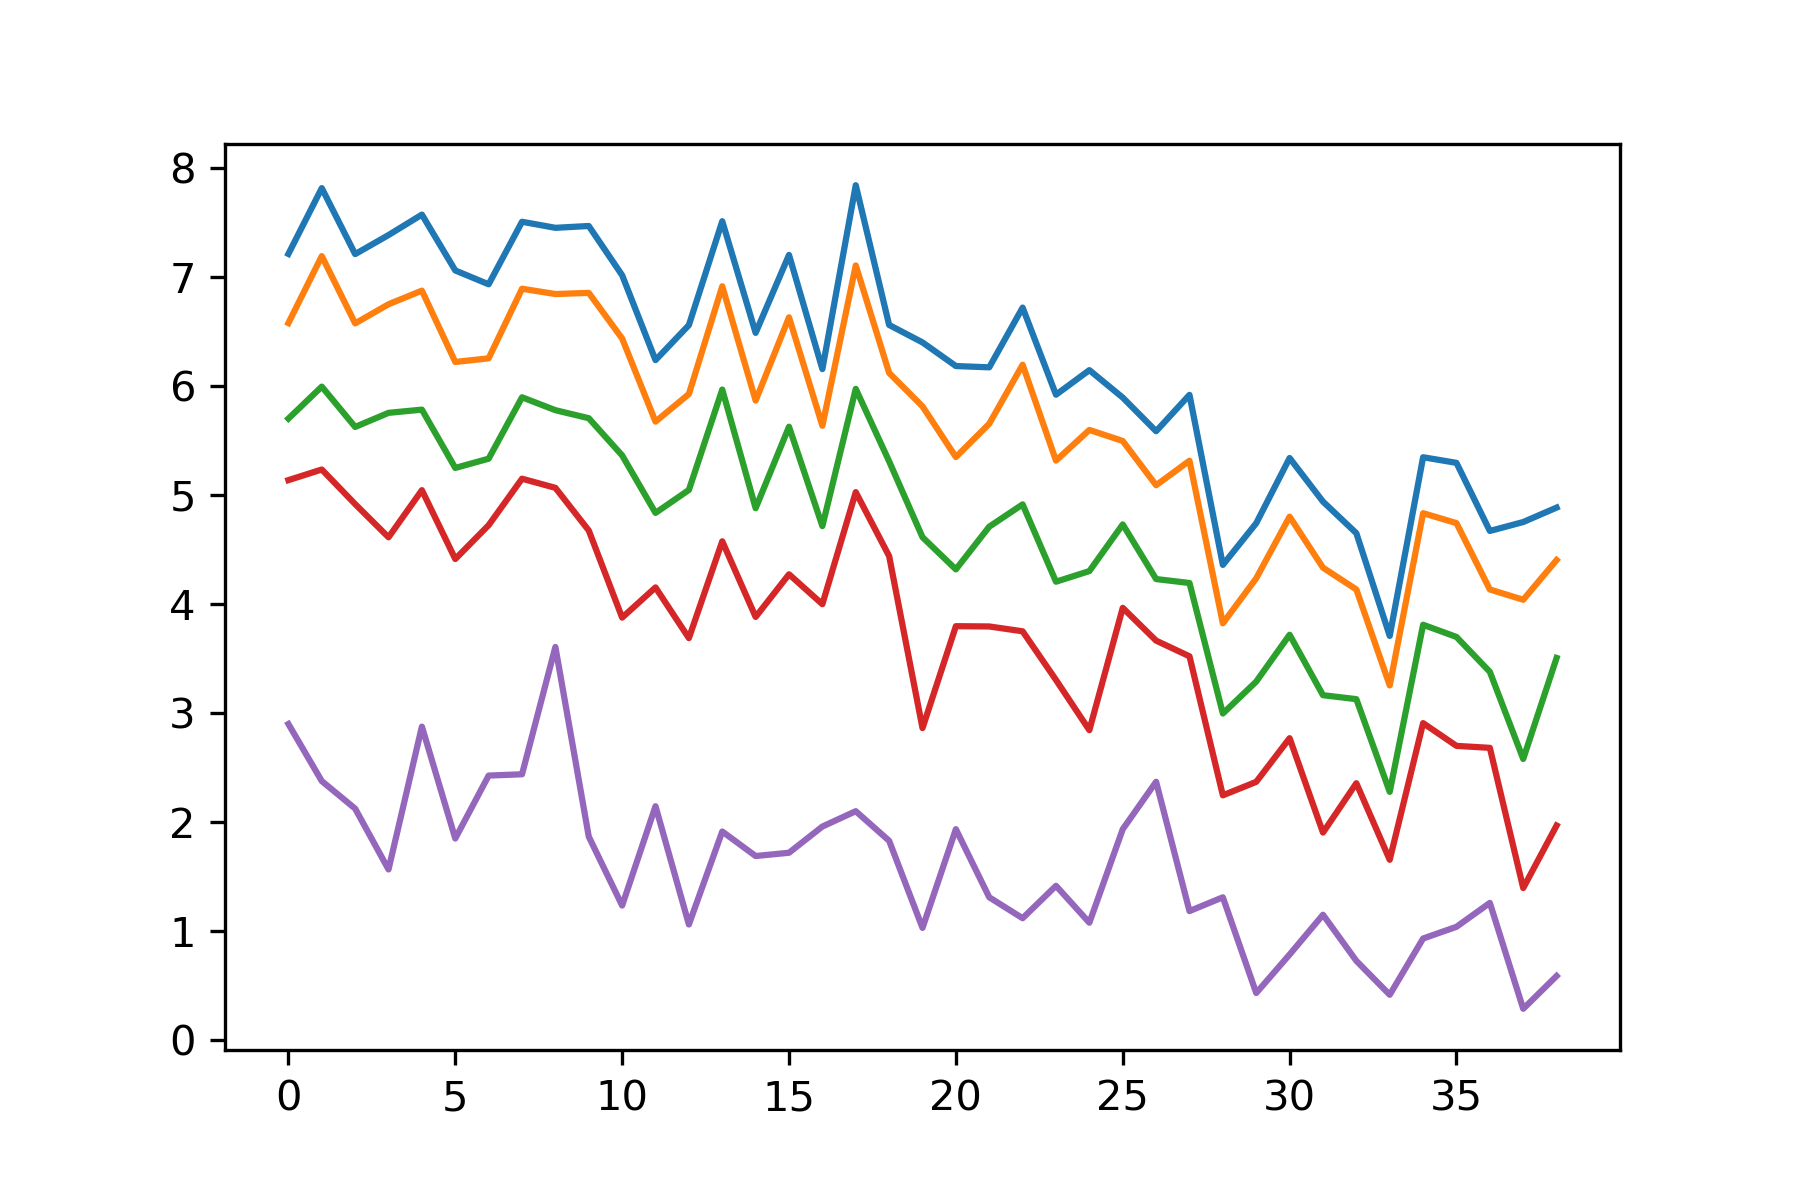
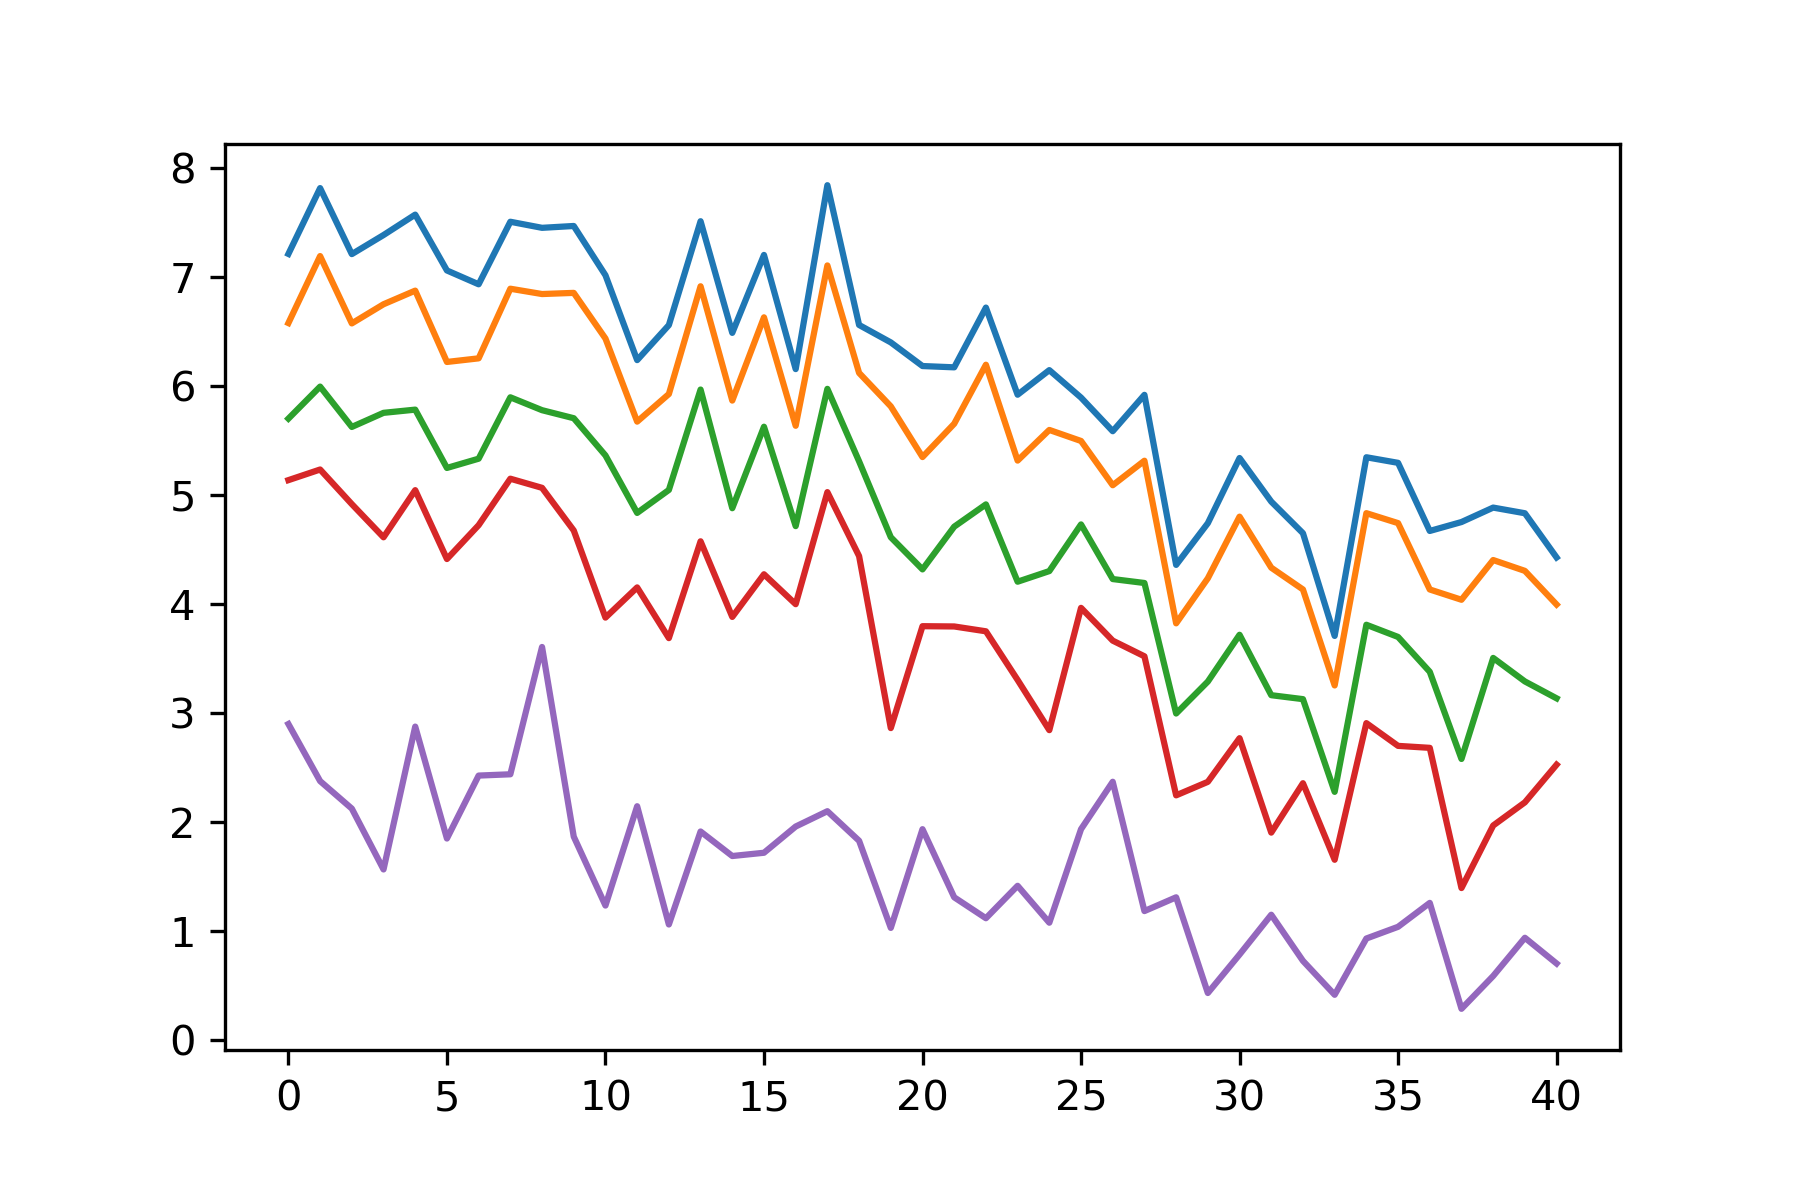
updates for 2019

diff --git a/VisualsNOAA/plot_movingSIE.py b/VisualsNOAA/plot_movingSIE.py
@@ -21,7 +21,7 @@ directorydata = '/surtsey/zlabe/seaice/sic/sic_rename/'
 directoryfigure = '/home/zlabe/Documents/Projects/ClimatePython/VisualsNOAA/' 
 
 yearmin = 1979               # first time includes 12 months
-yearmax = 2017
+yearmax = 2019
 years = np.arange(yearmin,yearmax+1,1)
 months = np.arange(1,13,1)
        
@@ -46,14 +46,14 @@ sie90 = np.genfromtxt('sie_tresh_90.txt',unpack=True,delimiter=',')
 fig = plt.figure()
 ax = plt.subplot(111) 
 
+plt.rc('text',usetex=True)
+plt.rc('font',**{'family':'sans-serif','sans-serif':['Avant Garde']})
 matplotlib.rc('savefig', facecolor='black')
 matplotlib.rc('axes', edgecolor='darkgrey')
 matplotlib.rc('xtick', color='darkgrey')
 matplotlib.rc('ytick', color='darkgrey')
 matplotlib.rc('axes', labelcolor='darkgrey')
 matplotlib.rc('axes', facecolor='black')
-plt.rc('text',usetex=True)
-plt.rc('font',**{'family':'sans-serif','sans-serif':['Avant Garde']})
 
 ### Adjust axes in time series plots 
 def adjust_spines(ax, spines):
@@ -92,27 +92,27 @@ ax.tick_params('both',length=5.5,width=2,which='major')
 #bar44 = plt.fill_between(years,sie75,0,color=cmocean.cm.ice(0.45))
 #bar55 = plt.fill_between(years,sie90,0,color=cmocean.cm.ice(0.2))
 
-plt.text(2017.4,sie15[-1]-0.1,r'\textbf{15\%}',color=cmocean.cm.ice(0.99),fontsize=15)
-plt.text(2017.4,sie30[-1]-0.1,r'\textbf{30\%}',color=cmocean.cm.ice(0.8),fontsize=15)
-plt.text(2017.4,sie60[-1]-0.1,r'\textbf{60\%}',color=cmocean.cm.ice(0.65),fontsize=15)
-plt.text(2017.4,sie75[-1]-0.1,r'\textbf{75\%}',color=cmocean.cm.ice(0.45),fontsize=15)
-plt.text(2017.4,sie90[-1]-0.1,r'\textbf{90\%}',color=cmocean.cm.ice(0.2),fontsize=15)
+plt.text(2019.4,sie15[-1]-0.15,r'\textbf{15\%}',color=cmocean.cm.ice(0.99),fontsize=15)
+plt.text(2019.4,sie30[-1]-0.15,r'\textbf{30\%}',color=cmocean.cm.ice(0.8),fontsize=15)
+plt.text(2019.4,sie60[-1]-0.15,r'\textbf{60\%}',color=cmocean.cm.ice(0.65),fontsize=15)
+plt.text(2019.4,sie75[-1]-0.15,r'\textbf{75\%}',color=cmocean.cm.ice(0.45),fontsize=15)
+plt.text(2019.4,sie90[-1]-0.15,r'\textbf{90\%}',color=cmocean.cm.ice(0.2),fontsize=15)
 
-plt.text(2018,6,r'\textbf{Sea Ice}',color='darkgrey',fontsize=8,
+plt.text(2019,5.5,r'\textbf{Sea Ice}',color='darkgrey',fontsize=8,
           ha='center',va='center')
-plt.text(2018.,5.7,r'\textbf{Concentration}',color='darkgrey',fontsize=8,
+plt.text(2019.,5.2,r'\textbf{Concentration}',color='darkgrey',fontsize=8,
           ha='center',va='center')
 
 plt.ylabel(r'\textbf{Extent [$\bf{\times}$10$^{6}$\ \textbf{km}$^2$]}',
            fontsize=13,color='darkgrey',labelpad=10)
-plt.title(r'\textbf{SEPTEMBER ARCTIC SEA ICE EXTENT}',fontsize=21,
+plt.title(r'\textbf{SEPTEMBER -- ARCTIC SEA ICE EXTENT}',fontsize=20,
           color='w')
 
-plt.xticks(np.arange(1979,2018,4),map(str,np.arange(1979,2018,4)),rotation=0,fontsize=10)
+plt.xticks(np.arange(1979,2020,4),map(str,np.arange(1979,2020,4)),rotation=0,fontsize=10)
 ylabels = map(str,np.arange(0,10,1))
 plt.yticks(np.arange(0,10,1),ylabels,fontsize=10)
 plt.ylim([0,8])
-plt.xlim([1979,2017])
+plt.xlim([1979,2019])
 
 def animate(i):
     x = years[0:(i)]
@@ -129,7 +129,7 @@ def animate(i):
     return p15,p30,p60,p75,p90
     
 ani = animation.FuncAnimation(fig,animate,frames=70,interval=180,repeat=True,
-                              blit=False)
+                              blit=True)
 ani.save('NSIDC_SIC_thresh_moving.gif',writer='imagemagick',dpi=300)
 
 #plt.savefig('NSIDC_SIC_thresh_moving.png',dpi=300)

diff --git a/VisualsNOAA/calc_NSIDC_SIE.py b/VisualsNOAA/calc_NSIDC_SIE.py
@@ -23,8 +23,9 @@ directorydata = '/surtsey/zlabe/seaice/sic/sic_rename/'
 directoryfigure = '/home/zlabe/Documents/Projects/ClimatePython/VisualsNOAA/' 
 
 yearmin = 1979               # first time includes 12 months
-yearmax = 2017
+yearmax = 2019
 years = np.arange(yearmin,yearmax+1,1)
+years2 = np.arange(yearmin,yearmax,1)
 months = np.arange(1,13,1)
        
 ### Define time           
@@ -39,7 +40,7 @@ print('\n' 'Satellite SIC Read & Regrid - %s' '\n' % titletime)
 
 ### Read in NSIDC official SIE data
 nsidc = np.genfromtxt('SeaIceIndex_09.txt',unpack=True,usecols=4,
-                      delimiter=',')
+                      delimiter=',',skip_header=1)
 
 def sicRead(directory,years):
     """
@@ -81,8 +82,54 @@ def sicRead(directory,years):
     print('Completed: Read SIC data!' )
     return lats,lons,ice,hdr,mask
 
+def read2019(directory):
+    directory19 = '/seley/zlabe/seaice/nsidc/sep_2019/'
+    days = np.arange(1,30+1,1)
+    
+    ### Read binary lat x lon arrays
+    lons = np.fromfile(directory + 'psn25lons_v3.dat',dtype='<i4')
+    lons = (np.reshape(lons,(448,304)))/100000.  # Scale Factor
+    lats = np.fromfile(directory + 'psn25lats_v3.dat',dtype='<i4')
+    lats = (np.reshape(lats,(448,304)))/100000.  # Scale Factor
+    
+    ### Read binary sea ice concentration
+    ice = np.empty((len(days),136192))
+    for i in range(len(days)):    
+        if days[i] < 10:
+            filename = 'nt_2019090%s_f18_nrt_n.bin' % (days[i])
+        else:
+            filename = 'nt_201909%s_f18_nrt_n.bin' % (days[i])
+        infile = directory19 + filename
+        
+        with open(infile, 'rb') as fr:
+            hdr = fr.read(300)
+            ice[i,:] = np.fromfile(fr, dtype=np.uint8)
+    
+    ice = np.reshape(ice,(ice.shape[0],448,304))
+    ice = ice/250               # Scale Factor
+    
+    ### Take monthly average
+    icem = np.mean(ice,axis=0)
+    
+    ### Assign mask
+    mask = np.fromfile(directory + 'gsfc_25n.msk',dtype='int8')
+    mask = np.reshape(mask,(448,304))
+    mask = mask.astype(float)
+    mask[np.where(mask == 1.0)] = np.nan
+    mask[np.where(mask == 0.0)] = 1.0
+    icem = icem*mask
+    
+    ### Add axis to append
+    icem = icem[np.newaxis,:,:]
+    
+    return lats,lons,icem,hdr,mask
+
 ### Call data
-lat2,lon2,sie,hdr,mask = sicRead(directorydata,years)
+lat2,lon2,sieall,hdr,mask = sicRead(directorydata,years2)
+lat19,lon19,sie19,hdr,mask = read2019(directorydata)
+
+### Append data
+sie = np.append(sieall,sie19,axis=0)
 
 def calculateThresh(sie,years,thresh):
     """
@@ -122,14 +169,14 @@ np.savetxt(directoryfigure + 'sie_tresh_75.txt',ext75,delimiter=',')
 np.savetxt(directoryfigure + 'sie_tresh_90.txt',ext90,delimiter=',')
 
 ### Testing data (do not use)
-#fig = plt.figure()
-#plt.plot(ext)
-#plt.plot(nsidc)
-#plt.savefig(directoryfigure + 'test.png',dpi=300)
-#fig = plt.figure()
-#plt.plot(ext15)
-#plt.plot(ext30)
-#plt.plot(ext60)
-#plt.plot(ext75)
-#plt.plot(ext90)
-#plt.savefig(directoryfigure + 'test2.png',dpi=300)
+fig = plt.figure()
+plt.plot(ext15)
+plt.plot(nsidc)
+plt.savefig(directoryfigure + 'test.png',dpi=300)
+fig = plt.figure()
+plt.plot(ext15)
+plt.plot(ext30)
+plt.plot(ext60)
+plt.plot(ext75)
+plt.plot(ext90)
+plt.savefig(directoryfigure + 'test2.png',dpi=300)
